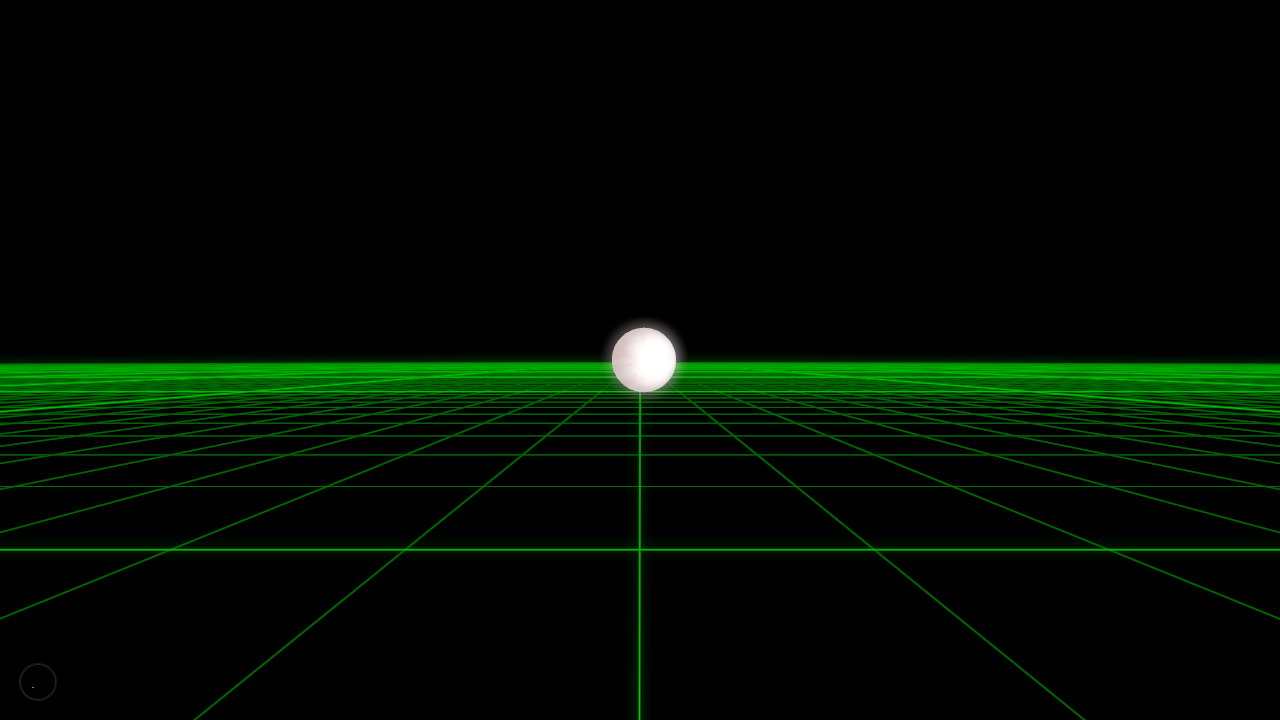
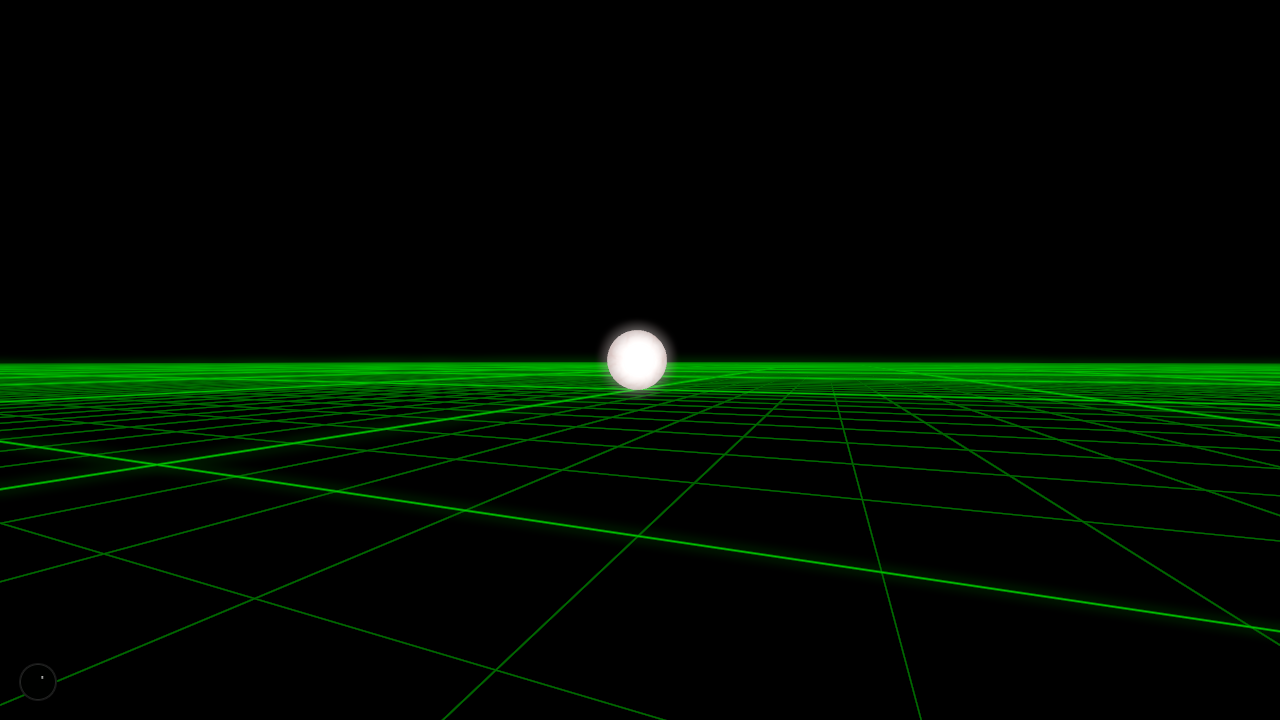
Refactor: Offset initial player X and ensure consistent Y reporting

diff --git a/tests/basic.spec.ts b/tests/basic.spec.ts
@@ -4,7 +4,7 @@ const pollForCondition = async (
   page: Page,
   conditionFn: () => Promise<boolean>,
   timeout = 10000,
-  pollInterval = 100
+  pollInterval = 100,
 ) => {
   const startTime = Date.now();
   while (Date.now() - startTime < timeout) {
@@ -84,7 +84,7 @@ test.describe("Multi-User Event Synchronization", () => {
           return storeState?.remoteKeys?.[id];
         }, user1SymbolId);
         return keyData?.key === user1Key;
-      }
+      },
     );
     expect(symbolEventReceivedOnPage2).toBe(true);
   });
@@ -103,9 +103,9 @@ test.describe("Multi-User Event Synchronization", () => {
             | undefined;
         });
         return Object.values(remoteKeys || {}).some(
-          (entry) => entry.key === "h"
+          (entry) => entry.key === "h",
         );
-      }
+      },
     );
     expect(clientSideSymbolEventReceived).toBe(true);
   });
@@ -116,7 +116,7 @@ test("original: has title and receives initial event data", async ({
   request,
 }) => {
   page.on("console", (msg) =>
-    console.log(`BROWSER CONSOLE: ${msg.type()}: ${msg.text()}`)
+    console.log(`BROWSER CONSOLE: ${msg.type()}: ${msg.text()}`),
   );
 
   const postData = {
@@ -140,7 +140,7 @@ test("original: has title and receives initial event data", async ({
       });
       return JSON.stringify(eyeData?.p) === JSON.stringify([1, 2, 3]);
     },
-    10000
+    10000,
   );
   expect(received).toBe(true);
 });

diff --git a/src/stores/eventStore.ts b/src/stores/eventStore.ts
@@ -94,8 +94,11 @@ export const useEventStore = create<EventStoreState & EventStoreActions>()(
       set((state) => {
         state.listeners.eyeUpdate.push(callback);
         if (state.cachedEyeUpdates.length > 0) {
-          const cacheToDispatch = [...state.cachedEyeUpdates];
-          state.cachedEyeUpdates = [];
+          // Deep clone events to prevent passing Immer proxies to setTimeout
+          const cacheToDispatch = state.cachedEyeUpdates.map((event) =>
+            JSON.parse(JSON.stringify(event)),
+          );
+          state.cachedEyeUpdates = []; // Clear original cache
           setTimeout(() => {
             console.log(
               `Dispatching ${cacheToDispatch.length} cached eye events to new subscriber.`,

diff --git a/src/hooks/useEyePositionReporting.ts b/src/hooks/useEyePositionReporting.ts
@@ -1,6 +1,7 @@
 import { useEffect, useRef } from "react";
 import { Vector3 } from "three";
 
+import { EYE_Y_POSITION } from "@/domain/sceneConstants";
 import { roundVec3, areVec3sEqual, roundArray } from "@/lib/utils";
 
 import type { EyeUpdateType } from "@/domain";
@@ -29,7 +30,7 @@ export const useEyePositionReporting = (
 
     const initialPositionRaw: [number, number, number] = [
       camera.position.x,
-      camera.position.y,
+      EYE_Y_POSITION,
       camera.position.z,
     ];
     const initialPositionRounded = roundVec3(initialPositionRaw);

diff --git a/src/app/components/Scene.tsx b/src/app/components/Scene.tsx
@@ -137,7 +137,7 @@ const Scene = () => {
 
   return (
     <Canvas
-      camera={{ position: [0, 20, 120], near: 1, far: 2500, fov: 75 }}
+      camera={{ position: [48, 20, 120], near: 1, far: 2500, fov: 75 }}
       style={{ width: "100%", height: "100%" }}
       shadows
     >
